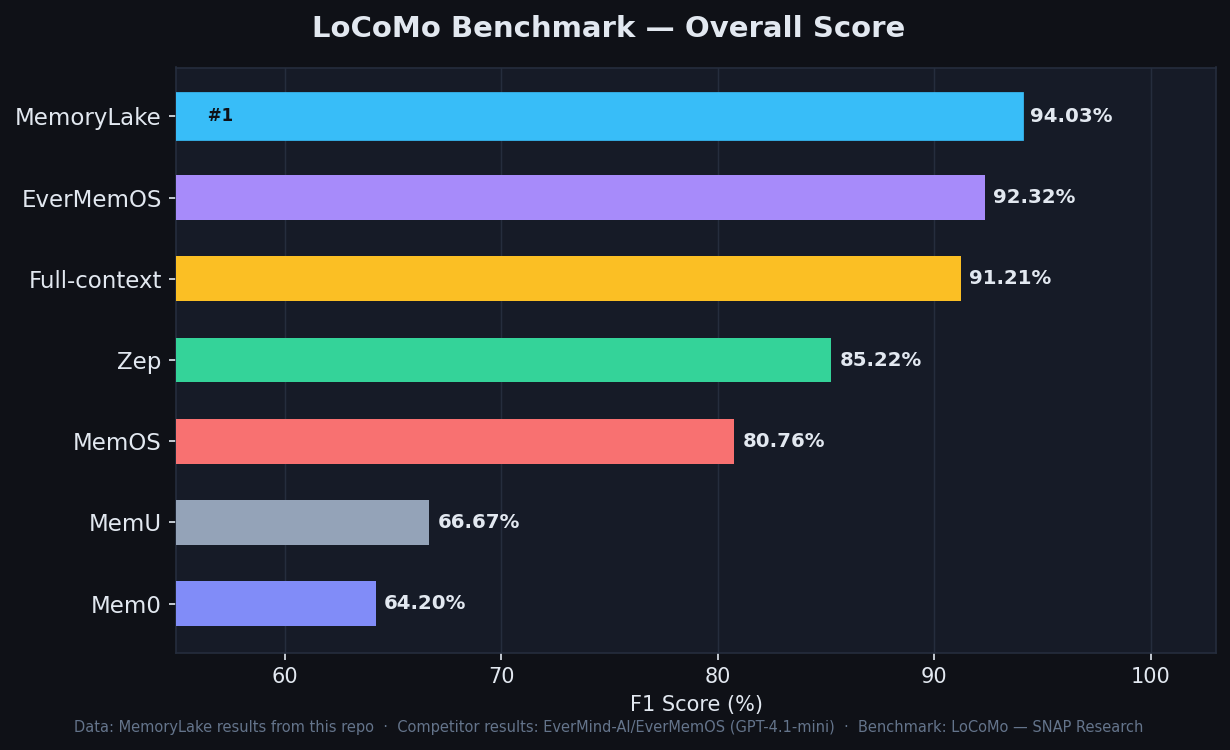
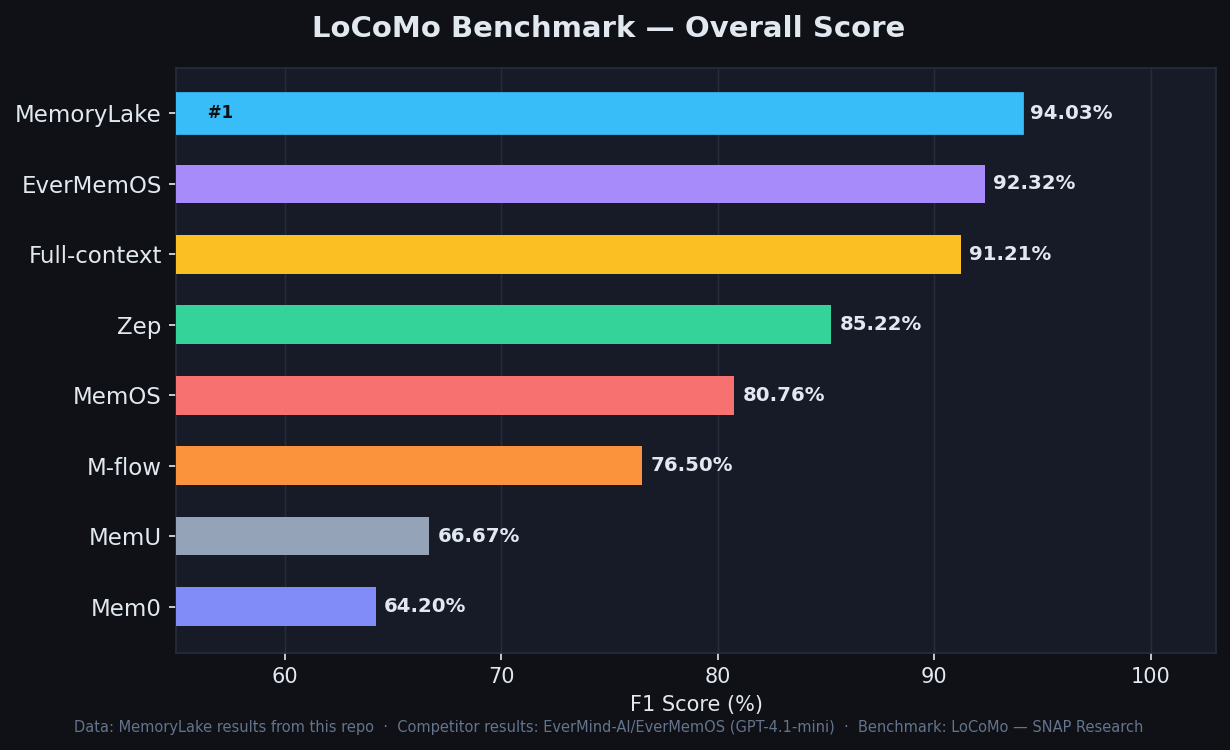
Add M-flow competitor data to benchmark comparison

Changed region(s): [[0.0, 0.1227, 0.8959, 0.828], [0.3089, 0.7973, 0.4016, 0.828]]

diff --git a/plot_results.py b/plot_results.py
@@ -29,6 +29,7 @@ SYSTEMS = [
     "Full-context",
     "Zep",
     "MemOS",
+    "M-flow",
     "MemU",
     "Mem0",
 ]
@@ -40,6 +41,7 @@ DATA = {
     "Full-context": [94.93,  90.43,  87.95,   71.88,  91.21],
     "Zep":          [90.84,  81.91,  77.26,   75.00,  85.22],
     "MemOS":        [85.37,  79.43,  75.08,   64.58,  80.76],
+    "M-flow":       [None,   None,   None,    None,   76.50],
     "MemU":         [74.91,  72.34,  43.61,   54.17,  66.67],
     "Mem0":         [68.97,  61.70,  58.26,   50.00,  64.20],
 }
@@ -70,6 +72,7 @@ PALETTE = [
     "#fbbf24",  # Full-context – amber
     "#34d399",  # Zep          – emerald
     "#f87171",  # MemOS        – red
+    "#fb923c",  # M-flow       – orange
     "#94a3b8",  # MemU         – slate
     "#818cf8",  # Mem0         – indigo
 ]
@@ -147,10 +150,15 @@ width  = 0.10
 x      = np.arange(n_cats)
 
 for i, (sys, color) in enumerate(zip(SYSTEMS, PALETTE)):
-    vals   = [DATA[sys][j] for j in range(4)]
+    vals   = [DATA[sys][j] if DATA[sys][j] is not None else 0 for j in range(4)]
     offset = (i - n_sys / 2 + 0.5) * width
-    ax.bar(x + offset, vals, width=width * 0.9,
-           color=color, edgecolor="none", zorder=3, label=sys)
+    if any(v is None for v in DATA[sys][:4]):
+        # Skip systems with no category data in grouped bar chart
+        ax.bar(x + offset, vals, width=width * 0.9,
+               color=color, edgecolor="none", zorder=3, label=f"{sys} (overall only)", alpha=0.0)
+    else:
+        ax.bar(x + offset, vals, width=width * 0.9,
+               color=color, edgecolor="none", zorder=3, label=sys)
 
 ax.set_xticks(x)
 ax.set_xticklabels(CATEGORIES, fontsize=11)
@@ -206,18 +214,21 @@ save(fig, "03_radar.png")
 fig, ax = new_fig(8, 5.5, "LoCoMo Benchmark — Score Heatmap")
 ax.grid(visible=False)
 
-matrix = np.array([[DATA[s][j] for j in range(4)] for s in SYSTEMS])
+# Exclude systems without category breakdowns from heatmap
+HEATMAP_SYSTEMS = [s for s in SYSTEMS if all(v is not None for v in DATA[s][:4])]
+HEATMAP_PALETTE = [PALETTE[SYSTEMS.index(s)] for s in HEATMAP_SYSTEMS]
+matrix = np.array([[DATA[s][j] for j in range(4)] for s in HEATMAP_SYSTEMS])
 cmap = LinearSegmentedColormap.from_list(
     "dark_cyan", ["#1e3a5f", "#0ea5e9", "#bae6fd"], N=256)
 im = ax.imshow(matrix, cmap=cmap, aspect="auto", vmin=40, vmax=100)
 
 ax.set_xticks(range(n_cats))
 ax.set_xticklabels(CATEGORIES, fontsize=11, color=TEXT_CLR)
-ax.set_yticks(range(len(SYSTEMS)))
-ax.set_yticklabels(SYSTEMS, fontsize=11, color=TEXT_CLR)
+ax.set_yticks(range(len(HEATMAP_SYSTEMS)))
+ax.set_yticklabels(HEATMAP_SYSTEMS, fontsize=11, color=TEXT_CLR)
 ax.tick_params(bottom=False, left=False)
 
-for i in range(len(SYSTEMS)):
+for i in range(len(HEATMAP_SYSTEMS)):
     for j in range(n_cats):
         val = matrix[i, j]
         ax.text(j, i, f"{val:.1f}", ha="center", va="center",

diff --git a/README.md b/README.md
@@ -68,6 +68,7 @@ MemoryLake ranks **#1 overall** on the LoCoMo benchmark among all evaluated syst
 | Full-context | 94.93% | 90.43% | 87.95% | 71.88% | 91.21% |
 | Zep | 90.84% | 81.91% | 77.26% | 75.00% | 85.22% |
 | MemOS | 85.37% | 79.43% | 75.08% | 64.58% | 80.76% |
+| M-flow | N/A | N/A | N/A | N/A | 76.50% |
 | MemU | 74.91% | 72.34% | 43.61% | 54.17% | 66.67% |
 | Mem0 | 68.97% | 61.70% | 58.26% | 50.00% | 64.20% |
 
@@ -77,8 +78,8 @@ MemoryLake ranks **#1 overall** on the LoCoMo benchmark among all evaluated syst
 - MemoryLake's **open-domain score (85.42%)** is the highest by a wide margin (+10+ pp over the next best)
 - MemoryLake outperforms even the full-context (no compression) baseline while using far less tokens
 
-> **Competitor data source:** [EverMind-AI/EverMemOS evaluation](https://github.com/EverMind-AI/EverMemOS/tree/main/evaluation).
-> All competitor systems used **GPT-4.1-mini** as the answer LLM to ensure fair comparison.
+> **Competitor data source:** [EverMind-AI/EverMemOS evaluation](https://github.com/EverMind-AI/EverMemOS/tree/main/evaluation); [M-flow benchmarks](https://github.com/FlowElement-ai/mflow-benchmarks).
+> All competitor systems used **GPT-4.1-mini** as the answer LLM to ensure fair comparison. M-flow reported LLM-Judge overall score only (76.5%); per-category breakdown not disclosed.
 
 ---
 
@@ -114,6 +115,7 @@ MemoryLake ranks **#1 overall** on the LoCoMo benchmark among all evaluated syst
 |---|---|
 | LoCoMo benchmark | [snap-research.github.io/locomo](https://snap-research.github.io/locomo/) |
 | Competitor results | [EverMind-AI/EverMemOS/evaluation](https://github.com/EverMind-AI/EverMemOS/tree/main/evaluation) |
+| M-flow results | [FlowElement-ai/mflow-benchmarks](https://github.com/FlowElement-ai/mflow-benchmarks) |
 | MemoryLake product | [memorylake.ai](https://memorylake.ai/) |
 
 Raw per-question evaluation results are available in `locomo_result_*.json` files in this repository.
